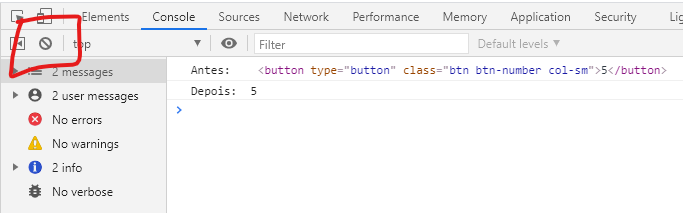
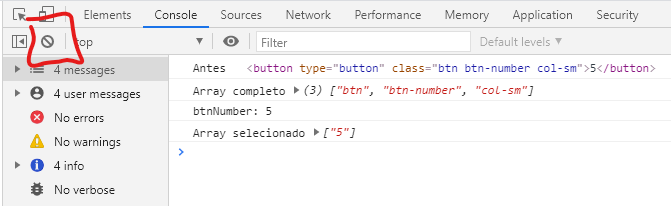
Cálculo do percentual finalizado

diff --git a/assets/js/controller/calcController.js b/assets/js/controller/calcController.js
@@ -3,6 +3,10 @@ class calcController {
     this._operation = [];
     this._displayCalcEl = document.querySelector("#display");
     this.initButtonsEvents();
+    this.initialize();
+  }
+  initialize() {
+    this.setLastNumberToDisplay();
   }
   get displayCalc() {
     return this._displayCalcEl.innerHTML;
@@ -28,20 +32,82 @@ class calcController {
 
   clearAll() {
     this._operation = [];
+    this.setLastNumberToDisplay();
   }
 
   clearEntry() {
     this._operation.pop();
+    this.setLastNumberToDisplay();
+  }
+
+  getLastOperation() {
+    return this._operation[this._operation.length - 1];
+  }
+  setLastOperation(value) {
+    this._operation[this._operation.length - 1] = value;
+  }
+
+  isOperator(value) {
+    return ["+", "-", "/", "*", "%", "√", "x²"].indexOf(value) > -1;
+  }
+
+  pushOperation(value) {
+    this._operation.push(value);
+    if (this._operation.length > 3) {
+      this.calc();
+    }
+  }
+
+  calc() {
+    let last = "";
+    if (this._operation.length > 3) {
+      last = this._operation.pop();
+    }
+    let result = eval(this._operation.join(""));
+    if (last == "%") {
+      result /= 100;
+      this._operation = [result];
+    } else {
+      this._operation = [result];
+    }
+    this.setLastNumberToDisplay();
+  }
+
+  setLastNumberToDisplay() {
+    let lastNumber;
+    for (let i = this._operation.length - 1; i >= 0; i--) {
+      if (!this.isOperator(this._operation[i])) {
+        lastNumber = this._operation[i];
+        break;
+      }
+    }
+    if (!lastNumber) lastNumber = 0;
+    this.displayCalc = lastNumber;
   }
 
   addOperation(value) {
-    let btn = value;
-    this._operation.push(value);
-    console.log(this._operation);
+    if (isNaN(this.getLastOperation())) {
+      if (this.isOperator(value)) {
+        this.setLastOperation(value);
+      } else if (isNaN(value)) {
+        console.log("outra coisa");
+      } else {
+        this.pushOperation(value);
+        this.setLastNumberToDisplay();
+      }
+    } else {
+      if (this.isOperator(value)) {
+        this.pushOperation(value);
+      } else {
+        let newValue = this.getLastOperation().toString() + value.toString();
+        this.setLastOperation(parseInt(newValue));
+        this.setLastNumberToDisplay();
+      }
+    }
   }
 
-  execBtn(value) {
-    switch (value) {
+  execBtn(btnText) {
+    switch (btnText) {
       case "CE":
         this.clearEntry();
         break;
@@ -53,8 +119,10 @@ class calcController {
       case "±":
         break;
       case ",":
+        this.addOperation(",");
         break;
       case "=":
+        this.calc();
         break;
       case "0":
       case "1":
@@ -66,23 +134,31 @@ class calcController {
       case "7":
       case "8":
       case "9":
-        this.addOperation(value);
+        this.addOperation(parseInt(btnText));
         break;
       case "%":
+        this.addOperation("%");
         break;
       case "√":
+        this.addOperation("√");
         break;
       case "x²":
+        this.addOperation("x²");
         break;
       case "¹/x":
+        this.addOperation("¹/x");
         break;
       case "÷":
+        this.addOperation("/");
         break;
-      case "X":
+      case "x":
+        this.addOperation("*");
         break;
       case "-":
+        this.addOperation("-");
         break;
       case "+":
+        this.addOperation("+");
         break;
       default:
         this.setError();
@@ -94,8 +170,8 @@ class calcController {
     let buttons = document.querySelectorAll(".btn");
     buttons.forEach((btn) => {
       this.addEventListenerAll(btn, "click drag", (e) => {
-        let textBtn = btn.innerHTML.toString();
-        this.execBtn(textBtn);
+        let btnText = btn.innerHTML;
+        this.execBtn(btnText);
       });
     });
   }

diff --git a/index.html b/index.html
@@ -80,34 +80,34 @@
         </header>
         <section class="container">
           <div class="row">
-            <button type="button" class="btn btn-calc col-sm">%</button>
-            <button type="button" class="btn btn-calc col-sm">√</button>
-            <button type="button" class="btn btn-calc col-sm">x²</button>
-            <button type="button" class="btn btn-calc col-sm">¹/x</button>
+            <button type="button" class="btn btn-others col-sm">%</button>
+            <button type="button" class="btn btn-others col-sm">√</button>
+            <button type="button" class="btn btn-others col-sm">x²</button>
+            <button type="button" class="btn btn-others col-sm">¹/x</button>
           </div>
           <div class="row">
             <button type="button" class="btn btn-others col-sm">CE</button>
             <button type="button" class="btn btn-others col-sm">C</button>
             <button type="button" class="btn btn-others col-sm">←</button>
-            <button type="button" class="btn btn-calc col-sm">÷</button>
+            <button type="button" class="btn btn-others col-sm">÷</button>
           </div>
           <div class="row">
             <button type="button" class="btn btn-number col-sm">7</button>
             <button type="button" class="btn btn-number col-sm">8</button>
             <button type="button" class="btn btn-number col-sm">9</button>
-            <button type="button" class="btn btn-calc col-sm">X</button>
+            <button type="button" class="btn btn-others col-sm">x</button>
           </div>
           <div class="row">
             <button type="button" class="btn btn-number col-sm">4</button>
             <button type="button" class="btn btn-number col-sm">5</button>
             <button type="button" class="btn btn-number col-sm">6</button>
-            <button type="button" class="btn btn-calc col-sm">-</button>
+            <button type="button" class="btn btn-others col-sm">-</button>
           </div>
           <div class="row">
             <button type="button" class="btn btn-number col-sm">1</button>
             <button type="button" class="btn btn-number col-sm">2</button>
             <button type="button" class="btn btn-number col-sm">3</button>
-            <button type="button" class="btn btn-calc col-sm">+</button>
+            <button type="button" class="btn btn-others col-sm">+</button>
           </div>
           <div class="row">
             <button type="button" class="btn btn-others col-sm">±</button>

diff --git a/README.md b/README.md
@@ -3,6 +3,7 @@
 ![Hcode Treinamentos](assets/images/calculator.png)
 
 ![Calculadora](assets/images/hcode-treinamentos.svg)
+
 Calculadora desenvolvida como exemplo do Curso Completo de JavaScript na Udemy.com.
 
 ## Projeto
@@ -245,10 +246,10 @@ Os grupos para identificá-las são:
 ```
 
 O método initButtons é o responsável por carregar todas as teclas para o JavaScript. Para isso ele usa a propriedade nativa do JS `querySelectorAll()` que está dentro do objeto document. O evento `document.querySelectorAll` seleciona todos os elementos da classe `.btn`, que corresponde a todas as teclas e armazena na variável buttons.
-Esses elementos são carregados dentro de suas tags, como pode ser visto pelo inspetor.
+Esses elementos são carregados tais quais estão dentro de suas tags, como pode ser visto pelo inspetor.
 ![querySelectorAll](assets/images/querySelectorAll.png)
 
-Como pode ser visto no exemplo no inspetor, logo abaixo, os elementos são identificados pelos seus índices que vão de 0 a 23. click drag são dois eventos distintos do mouse. O primeiro corresponde ao click do mouse e o segundo ao drag, que significa arrastar. Eles são eventos que são acionados pelo `addEventListener()`, evento nativo do JS que fica "escutando" as operações do mouse para dar uma resposta. Isso quer dizer que se o usuário clicar no botão e inadivertidamente arrastar o mouse dentro dele, a tecla desejada será acionada. Aqui nós temos um problema, porque o `addEventListener()` só consegue escutar um evento de cada vez. Para contornar esse problema, foi criado o método `addEventListenerAll()`. Veja que o método chama pelo `this.addEventListenerAll()`, passando os parâmetros necessários para ser executado. Os parâmetros que ele informa são:
+Como pode ser visto no exemplo no inspetor, logo abaixo, os elementos são identificados pelos seus índices que vão de 0 a 23. Os eventos click e drag são comandos distintos. O primeiro corresponde ao click do mouse e o segundo ao drag, que significa arrastar. Eles são eventos que são acionados pelo `addEventListener()`, evento nativo do JS que fica "escutando" as operações do mouse para dar uma resposta. Isso quer dizer que se o usuário clicar no botão e inadivertidamente arrastar o mouse dentro dele, a tecla desejada será acionada. Aqui nós temos um problema, porque o `addEventListener()` só consegue escutar um evento de cada vez. Para contornar esse problema, foi criado o método `addEventListenerAll()`. Veja que o método chama pelo `this.addEventListenerAll()`, passando os parâmetros necessários para ser executado. Os parâmetros que ele informa são:
 
 - o `btn` que é a variável contendo cada botão encontrado pelo `forEach()`, como poderá ser visto abaixo;
 - os eventos, que são o click e o drag;
@@ -266,23 +267,36 @@ Esse formato não pode ser reconhecido como um evento, pois cada nome representa
 
 Ao perceber o click, o drag ou os dois simultaneamente, aquele botão é colocado dentro do array e será acionado pelo `addEventListener()`. Na eventualidade dos dois eventos serem reconhecidos, seria produzido um resultado inesperando no display da calculadora, pois seriam considerados dois comandos e consequentemente aquela tecla seria acionada duas vezes. Para evitar possíveis erros, é passado o false que desconsidera o último evento, caso os dois fossem reconhecidos. Por fim, o parâmetro fn recebe a função que deve ser executada.
 
-O `this.addEventListenerAll()` dentro do método `initButtonsEvents()` que deu origem à execução do método, recebe o resultado do click na variável `textBtn` depois de passar por duas modificações. Para entender o que estamos falando, vamos acrescentar o método `console.log()` em duas posições, uma antes da variável `textBtn` e outra depois, conforme abaixo.
+O `this.addEventListenerAll()` dentro do método `initButtonsEvents()` que deu origem à execução do método, recebe o resultado do click na variável `btnGroup` como array. Como explicado anteriormente, os elementos, que estão no formato de string precisam ser transformados em array quando queremos trabalhar com um intem específico. Aqui nós nos interessamos pelos elementos da classe. Mais especificamente o segundo item, que faz referência aos grupos de teclas btn-calc, btn-number e btn-others. O switch nos permite classificar esses grupos para diferente finalidades que serão aplicadas posteriormente. Depois de identificados os grupos, o método `execBtn()` é invocado para dar prosseguimento ao cálculo.
 
 ```javascript
-initButtonsEvents() {
+iinitButtonsEvents() {
     let buttons = document.querySelectorAll(".btn");
     buttons.forEach((btn) => {
       this.addEventListenerAll(btn, "click drag", (e) => {
-        console.log("Antes: ", btn);
-        let textBtn = btn.innerHTML.toString();
-        console.log("Depois: ", textBtn);
-        this.displayCalc = textBtn;
+        console.log("Antes", btn);
+        let btnGroup = btn.className.split(" ");
+        console.log("Array completo", btnGroup);
+        switch (btnGroup[1]) {
+          case "btn-number":
+            let btnNumber = btn.innerHTML;
+            console.log("btnNumber:", btnNumber);
+            this.execBtn(btnNumber);
+            break;
+          case "btn-calc":
+            let btnCalc = btn.innerHTML;
+            this.execBtn(btnCalc);
+            break;
+          case "btn-others":
+            let btnOthers = btn.innerHTML;
+            this.execBtn(btnOthers);
+            break;
+        }
       });
     });
-  }
 ```
 
-Observe a palavra "Antes" e "Depois" e veja a resposta no resposta do console:
+Observe o processo de transformação no console:
 
 ![Console](assets/images/initBeforeAfter.png)
 
@@ -300,7 +314,7 @@ O conteúdo vindo do método addEventListenerAll() é uma cópia do elemento HTM
 
 ![Número 5](assets/images/fiveInnerProp.png)
 
-Este é o valor que nos interessa. Todo o resto do conteúdo será desprezado para o nosso propósito. É esse o número exibido na frente da palavra Depois no console que mostramos anteriormente e é ele quem é armazenado na variável `textBtn`, assim como qualquer outra tecla que for pressionada.
+Este é o valor que nos interessa. Todo o resto do conteúdo será desprezado para o nosso propósito.
 
 ======
 Ao receber uma tecla numérica
@@ -311,7 +325,7 @@ Se você quiser ver isso acontecendo no display da calculadora, insira o comando
 
 Até o momento, se clicarmos em qualquer tecla, já teremos uma resposta, conoforme mostrado anteriormente, mas isso não nos serve para muita coisa. Se você jogou o conteúdo das teclas para o display da calculadora como mencionado anteriormente, verá que ao clicar em cada uma delas, o conteúdo é substituído. O que nós precisamos agora é começar a definir suas funções. para que as coisas comecem a fazer sentido.
 
-O nosso conteúdo já está armazenado na variável `textBtn` e pronto para ser utilizado. Vamos então criar um novo método para dar destinos diferentes para as teclas.
+Agora, com o conteúdo da tecla já identificado pelo método addEventListenerAll, executado pelo
 
 ### Métodos execBtn() e addOperation()
 
